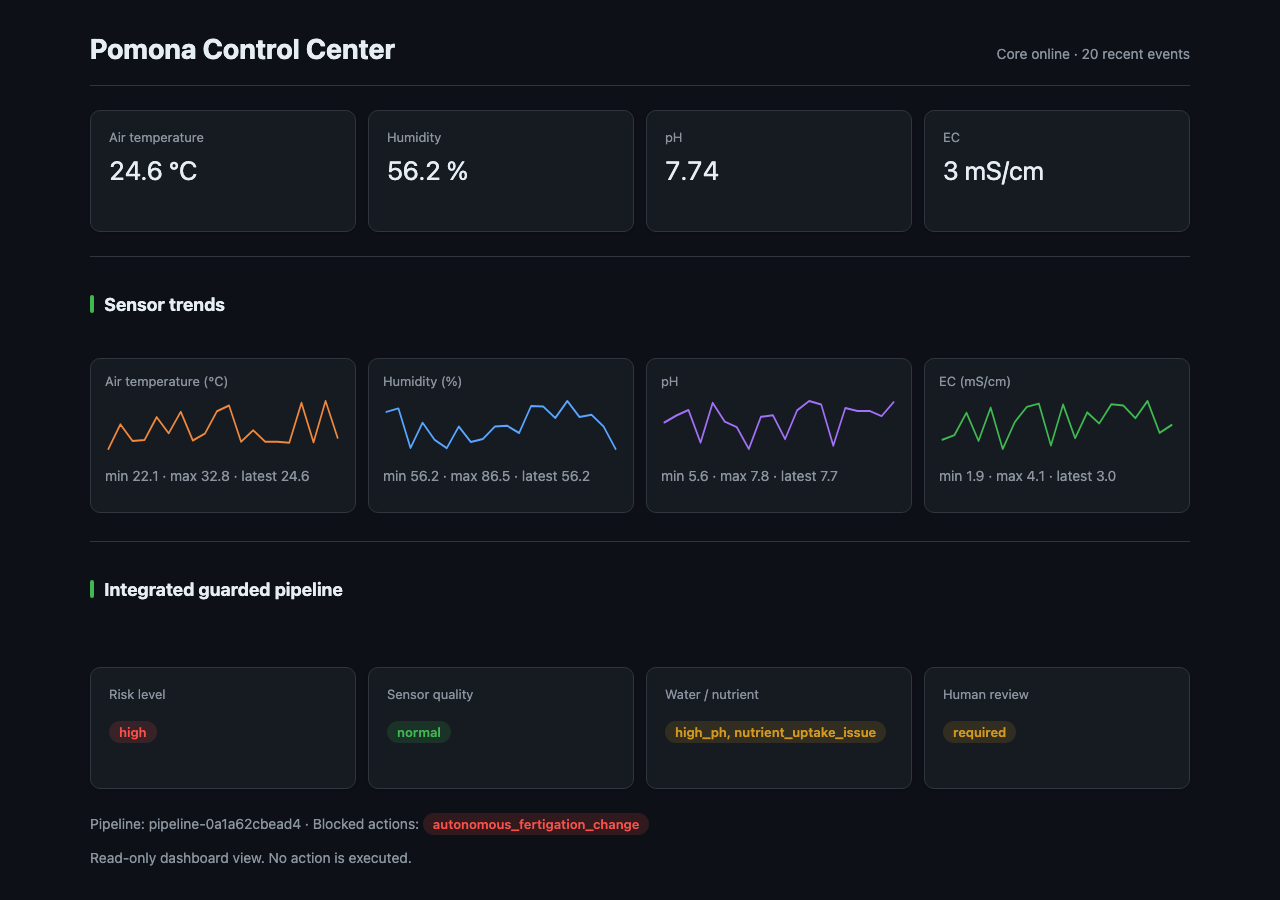
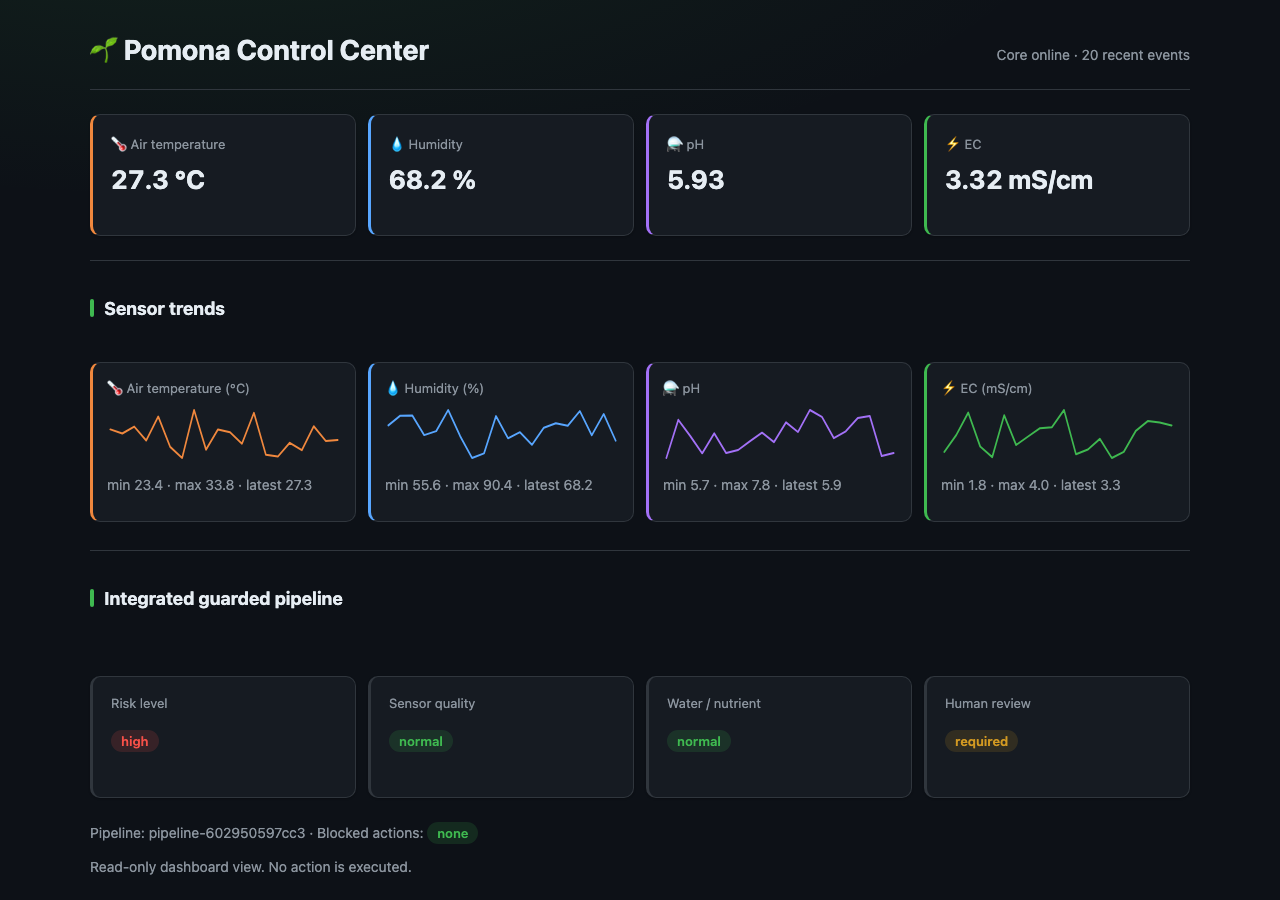
feat: give the dashboard a more designful visual pass
Add per-metric icons and color-matched left-border accents that tie
each live reading to its trend chart, a subtle brand-green header
glow, bolder metric values, and a hover lift on cards. Refresh the
README hero screenshot to match.

diff --git a/services/dashboard/app/main.py b/services/dashboard/app/main.py
@@ -398,16 +398,21 @@ DASHBOARD_HTML = r"""<!doctype html>
       --neutral: #8b949e; --neutral-bg: rgba(139, 148, 158, 0.15);
       --radius: 10px;
     }
-    body { margin: 0; background: var(--bg); color: var(--text); }
+    body {
+      margin: 0; color: var(--text);
+      background:
+        radial-gradient(900px 320px at 15% -120px, rgba(63, 185, 80, 0.10), transparent),
+        var(--bg);
+    }
     main { max-width: 1100px; margin: 0 auto; padding: 32px 20px 48px; }
     header { display: flex; justify-content: space-between; align-items: baseline; gap: 16px; border-bottom: 1px solid var(--border); padding-bottom: 20px; }
-    h1 { margin: 0; font-size: 28px; letter-spacing: 0; }
+    h1 { margin: 0; font-size: 28px; letter-spacing: 0; display: flex; align-items: center; gap: 10px; }
     .status { color: var(--text-dim); font-size: 14px; }
     .grid { display: grid; grid-template-columns: repeat(4, minmax(0, 1fr)); gap: 12px; margin: 24px 0; }
-    .metric { border: 1px solid var(--border); background: var(--bg-card); border-radius: var(--radius); padding: 18px; min-height: 84px; box-shadow: 0 1px 2px rgba(0, 0, 0, 0.25); transition: border-color .15s ease; }
-    .metric:hover { border-color: #484f58; }
+    .metric { border: 1px solid var(--border); border-left: 3px solid var(--border); background: var(--bg-card); border-radius: var(--radius); padding: 18px; min-height: 84px; box-shadow: 0 1px 2px rgba(0, 0, 0, 0.25); transition: border-color .15s ease, transform .15s ease; }
+    .metric:hover { border-color: #484f58; transform: translateY(-1px); }
     .label { color: var(--text-dim); font-size: 13px; }
-    .value { font-size: 26px; margin-top: 10px; font-variant-numeric: tabular-nums; }
+    .value { font-size: 26px; font-weight: 700; margin-top: 10px; font-variant-numeric: tabular-nums; }
     section { border-top: 1px solid var(--border); padding-top: 22px; }
     section h2 { display: flex; align-items: center; gap: 10px; font-size: 18px; }
     section h2::before { content: ''; width: 4px; height: 18px; background: var(--accent); border-radius: 2px; display: inline-block; }
@@ -421,19 +426,24 @@ DASHBOARD_HTML = r"""<!doctype html>
     .badge.danger { background: var(--danger-bg); color: var(--danger); }
     .badge.neutral { background: var(--neutral-bg); color: var(--neutral); }
     .trend-grid { display: grid; grid-template-columns: repeat(4, minmax(0, 1fr)); gap: 12px; }
-    .trend-card { border: 1px solid var(--border); background: var(--bg-card); border-radius: var(--radius); padding: 14px; }
+    .trend-card { border: 1px solid var(--border); border-left: 3px solid var(--border); background: var(--bg-card); border-radius: var(--radius); padding: 14px; transition: transform .15s ease; }
+    .trend-card:hover { transform: translateY(-1px); }
     .trend-card svg { width: 100%; height: 56px; display: block; margin-top: 8px; }
+    .accent-temp { border-left-color: #f0883e; }
+    .accent-humidity { border-left-color: #58a6ff; }
+    .accent-ph { border-left-color: #a371f7; }
+    .accent-ec { border-left-color: #3fb950; }
     @media (max-width: 720px) { .grid, .trend-grid { grid-template-columns: repeat(2, minmax(0, 1fr)); } header { display: block; } .status { display: block; margin-top: 8px; } }
   </style>
 </head>
 <body>
 <main>
-  <header><h1>Pomona Control Center</h1><div class="status" id="status">Connecting to services...</div></header>
+  <header><h1>🌱 Pomona Control Center</h1><div class="status" id="status">Connecting to services...</div></header>
   <div class="grid">
-    <div class="metric"><div class="label">Air temperature</div><div class="value" id="air">--</div></div>
-    <div class="metric"><div class="label">Humidity</div><div class="value" id="humidity">--</div></div>
-    <div class="metric"><div class="label">pH</div><div class="value" id="ph">--</div></div>
-    <div class="metric"><div class="label">EC</div><div class="value" id="ec">--</div></div>
+    <div class="metric accent-temp"><div class="label">🌡 Air temperature</div><div class="value" id="air">--</div></div>
+    <div class="metric accent-humidity"><div class="label">💧 Humidity</div><div class="value" id="humidity">--</div></div>
+    <div class="metric accent-ph"><div class="label">⚗ pH</div><div class="value" id="ph">--</div></div>
+    <div class="metric accent-ec"><div class="label">⚡ EC</div><div class="value" id="ec">--</div></div>
   </div>
   <section><h2>Sensor trends</h2><div id="trends" class="empty">Loading...</div></section>
   <section><h2>Integrated guarded pipeline</h2><div id="pipeline" class="empty">Loading...</div></section>
@@ -498,10 +508,10 @@ async function refresh() {
   }
   const chronological = [...data.recent_events].reverse();
   $('trends').innerHTML = `<div class="trend-grid">
-    <div class="trend-card"><div class="label">Air temperature (°C)</div>${sparkline(chronological.map((e) => e.air_temperature_c), '#f0883e')}</div>
-    <div class="trend-card"><div class="label">Humidity (%)</div>${sparkline(chronological.map((e) => e.humidity_pct), '#58a6ff')}</div>
-    <div class="trend-card"><div class="label">pH</div>${sparkline(chronological.map((e) => e.ph), '#a371f7')}</div>
-    <div class="trend-card"><div class="label">EC (mS/cm)</div>${sparkline(chronological.map((e) => e.ec_ms_cm), '#3fb950')}</div>
+    <div class="trend-card accent-temp"><div class="label">🌡 Air temperature (°C)</div>${sparkline(chronological.map((e) => e.air_temperature_c), '#f0883e')}</div>
+    <div class="trend-card accent-humidity"><div class="label">💧 Humidity (%)</div>${sparkline(chronological.map((e) => e.humidity_pct), '#58a6ff')}</div>
+    <div class="trend-card accent-ph"><div class="label">⚗ pH</div>${sparkline(chronological.map((e) => e.ph), '#a371f7')}</div>
+    <div class="trend-card accent-ec"><div class="label">⚡ EC (mS/cm)</div>${sparkline(chronological.map((e) => e.ec_ms_cm), '#3fb950')}</div>
   </div>`;
   const pipelineResponse = await fetch('/api/pipeline');
   const pipeline = await pipelineResponse.json();
